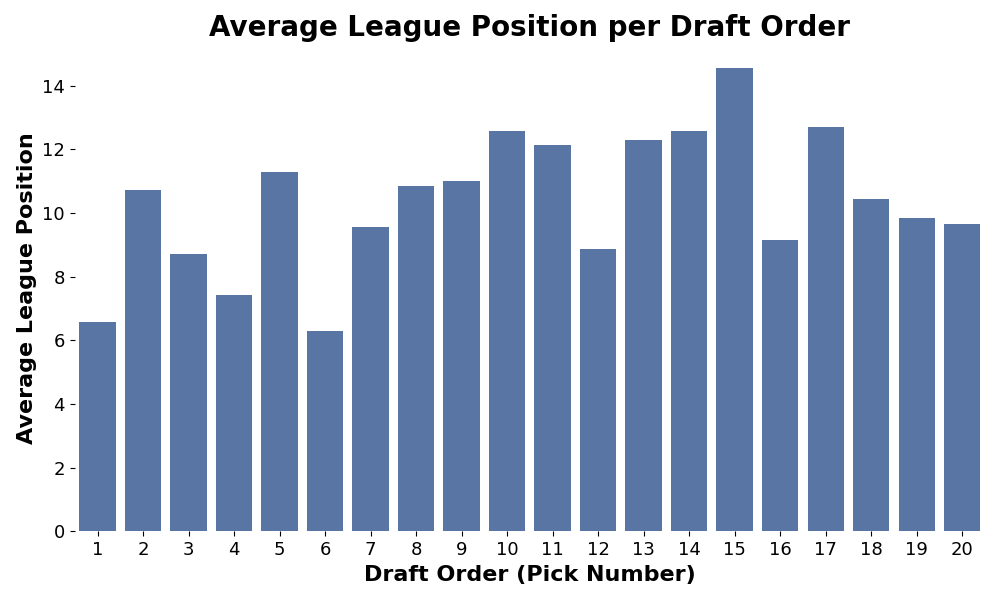
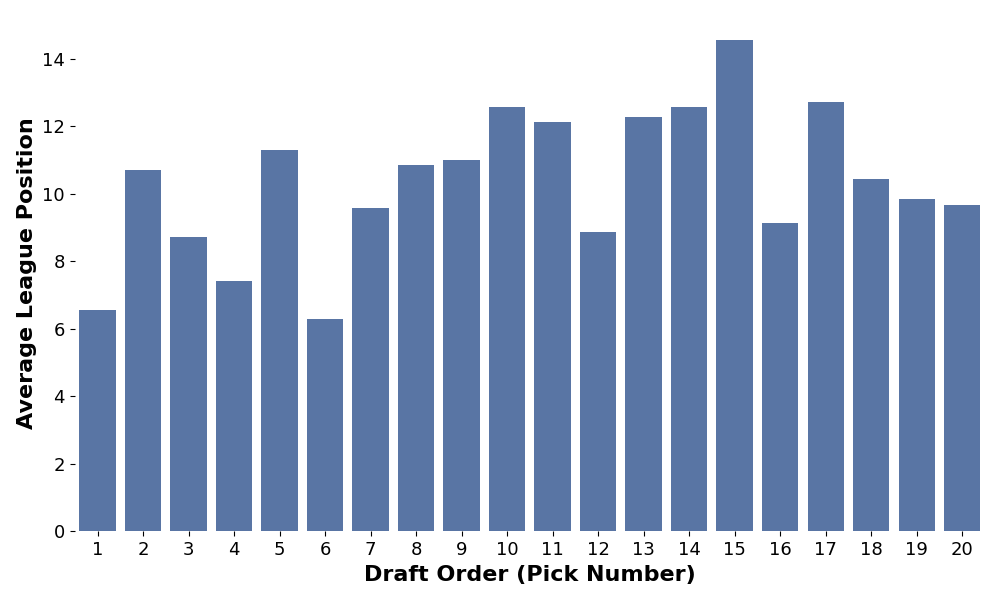
Update graphs

diff --git a/src/generate_analysis/generate_analysis.py b/src/generate_analysis/generate_analysis.py
@@ -4,6 +4,7 @@ import matplotlib.pyplot as plt
 import seaborn as sns
 import statsmodels.api as sm
 import re
+import matplotlib.font_manager as fm
 
 
 def load_and_clean_picks() -> pd.DataFrame:
@@ -28,6 +29,19 @@ def load_and_clean_positions() -> pd.DataFrame:
 
 
 
+def apply_graph_styling(ax):
+    """Apply consistent styling to graphs."""
+    # Remove graph titles entirely
+    ax.set_title("", fontsize=0)
+
+    # Set font to Raleway globally
+    raleway_path = fm.findfont(fm.FontProperties(family="Raleway"))
+    if raleway_path:
+        plt.rcParams["font.family"] = "Raleway"
+    else:
+        print("Raleway font not found. Using default font.")
+
+
 def plot_avg_wins_per_pick(df: pd.DataFrame, out_path: str = "Output/avg_wins_per_pick.png") -> None:
     """Plot average number of wins per draft order as a bar plot."""
     avg_wins_per_pick = df.groupby("Pick")["W"].mean().reset_index()
@@ -36,13 +50,13 @@ def plot_avg_wins_per_pick(df: pd.DataFrame, out_path: str = "Output/avg_wins_pe
     # Remove box (spines)
     for spine in ax.spines.values():
         spine.set_visible(False)
-    # Bold and enlarge title and labels
-    ax.set_title("Average Number of Wins per Draft Order", fontsize=20, fontweight="bold")
+    # Bold and enlarge labels
     ax.set_xlabel("Draft Order (Pick Number)", fontsize=16, fontweight="bold")
     ax.set_ylabel("Average Wins", fontsize=16, fontweight="bold")
     ax.tick_params(axis='both', labelsize=13)
+    apply_graph_styling(ax)
     plt.tight_layout()
-    plt.savefig(out_path)
+    plt.savefig(out_path, bbox_inches="tight")
     plt.close()
 
 
@@ -64,10 +78,9 @@ def plot_wins_vs_pick_scatter(df: pd.DataFrame, out_path: str = "Output/wins_vs_
         spine.set_visible(False)
     # Set ticks for each draft order
     ax.set_xticks(unique_picks)
-    # Bold and enlarge title and labels
-    ax.set_title("Wins by Draft Order (Disaggregated by Season)", fontsize=20, fontweight="bold")
-    ax.set_xlabel("Draft Order (Pick Number)", fontsize=16, fontweight="bold")
-    ax.set_ylabel("Wins", fontsize=16, fontweight="bold")
+    # Bold and enlarge labels
+    ax.set_xlabel("Pick", fontsize=16, fontweight="bold")
+    ax.set_ylabel("Victorias", fontsize=16, fontweight="bold")
     ax.tick_params(axis='both', labelsize=13)
     # Adjust legend
     handles, labels = ax.get_legend_handles_labels()
@@ -81,8 +94,9 @@ def plot_wins_vs_pick_scatter(df: pd.DataFrame, out_path: str = "Output/wins_vs_
             new_labels.append(l)
             seen.add(l)
     ax.legend(new_handles, new_labels, title="Season", bbox_to_anchor=(1.05, 1), loc="upper left")
+    apply_graph_styling(ax)
     plt.tight_layout()
-    plt.savefig(out_path)
+    plt.savefig(out_path, bbox_inches="tight")
     plt.close()
 
 
@@ -95,10 +109,10 @@ def plot_avg_position_per_pick(df: pd.DataFrame, out_path: str = "Output/avg_pos
     for spine in ax.spines.values():
         spine.set_visible(False)
     # Bold and enlarge title and labels
-    ax.set_title("Average League Position per Draft Order", fontsize=20, fontweight="bold")
     ax.set_xlabel("Draft Order (Pick Number)", fontsize=16, fontweight="bold")
     ax.set_ylabel("Average League Position", fontsize=16, fontweight="bold")
     ax.tick_params(axis='both', labelsize=13)
+    apply_graph_styling(ax)
     plt.tight_layout()
     plt.savefig(out_path)
     plt.close()
@@ -126,9 +140,8 @@ def plot_position_vs_pick_scatter(df: pd.DataFrame, out_path: str = "Output/posi
     for spine in ax.spines.values():
         spine.set_visible(False)
     # Bold and enlarge title and labels
-    ax.set_title("League Position by Draft Order (Disaggregated by Season)", fontsize=20, fontweight="bold")
-    ax.set_xlabel("Draft Order (Pick Number)", fontsize=16, fontweight="bold")
-    ax.set_ylabel("League Position", fontsize=16, fontweight="bold")
+    ax.set_xlabel("Pick", fontsize=16, fontweight="bold")
+    ax.set_ylabel("Posición", fontsize=16, fontweight="bold")
     ax.tick_params(axis='both', labelsize=13)
     # Adjust legend
     handles, labels = ax.get_legend_handles_labels()
@@ -142,6 +155,7 @@ def plot_position_vs_pick_scatter(df: pd.DataFrame, out_path: str = "Output/posi
             new_labels.append(l)
             seen.add(l)
     ax.legend(new_handles, new_labels, title="Season", bbox_to_anchor=(1.05, 1), loc="upper left")
+    apply_graph_styling(ax)
     plt.tight_layout()
     plt.savefig(out_path)
     plt.close()
@@ -157,7 +171,6 @@ def plot_avg_draft_position_per_user(df: pd.DataFrame, out_path: str = "Output/a
     for spine in ax.spines.values():
         spine.set_visible(False)
     # Bold and enlarge title and labels
-    ax.set_title("Average Draft Position per User", fontsize=20, fontweight="bold")
     ax.set_xlabel("User", fontsize=16, fontweight="bold")
     ax.set_ylabel("Average Draft Position", fontsize=16, fontweight="bold")
     ax.tick_params(axis='both', labelsize=13)
@@ -189,8 +202,7 @@ def plot_draft_positions_per_user(df: pd.DataFrame, out_path: str = "Output/draf
     for spine in ax.spines.values():
         spine.set_visible(False)
     # Bold and enlarge title and labels
-    ax.set_title("¿Es el bol injusto?", fontsize=20, fontweight="bold")
-    ax.set_xlabel("Usuario", fontsize=16, fontweight="bold")
+    ax.set_xlabel("", fontsize=16, fontweight="bold")
     ax.set_ylabel("Posición de Pickeo", fontsize=16, fontweight="bold")
     ax.tick_params(axis='both', labelsize=13)
     plt.xticks(rotation=90, ha="center")
@@ -221,7 +233,6 @@ def plot_avg_victories_per_user(df: pd.DataFrame, out_path: str = "Output/avg_vi
     for spine in ax.spines.values():
         spine.set_visible(False)
     # Bold and enlarge title and labels
-    ax.set_title("Average Victories per User", fontsize=20, fontweight="bold")
     ax.set_xlabel("User", fontsize=16, fontweight="bold")
     ax.set_ylabel("Average Victories", fontsize=16, fontweight="bold")
     ax.tick_params(axis='both', labelsize=13)
@@ -250,9 +261,8 @@ def plot_victories_per_user_scatter(df: pd.DataFrame, out_path: str = "Output/vi
     for spine in ax.spines.values():
         spine.set_visible(False)
     # Bold and enlarge title and labels
-    ax.set_title("Victories per User (Disaggregated by Season)", fontsize=20, fontweight="bold")
-    ax.set_xlabel("User", fontsize=16, fontweight="bold")
-    ax.set_ylabel("Victories", fontsize=16, fontweight="bold")
+    ax.set_xlabel("", fontsize=16, fontweight="bold")
+    ax.set_ylabel("Victorias", fontsize=16, fontweight="bold")
     ax.tick_params(axis='both', labelsize=13)
     plt.xticks(rotation=90, ha="center")
     # Adjust legend
